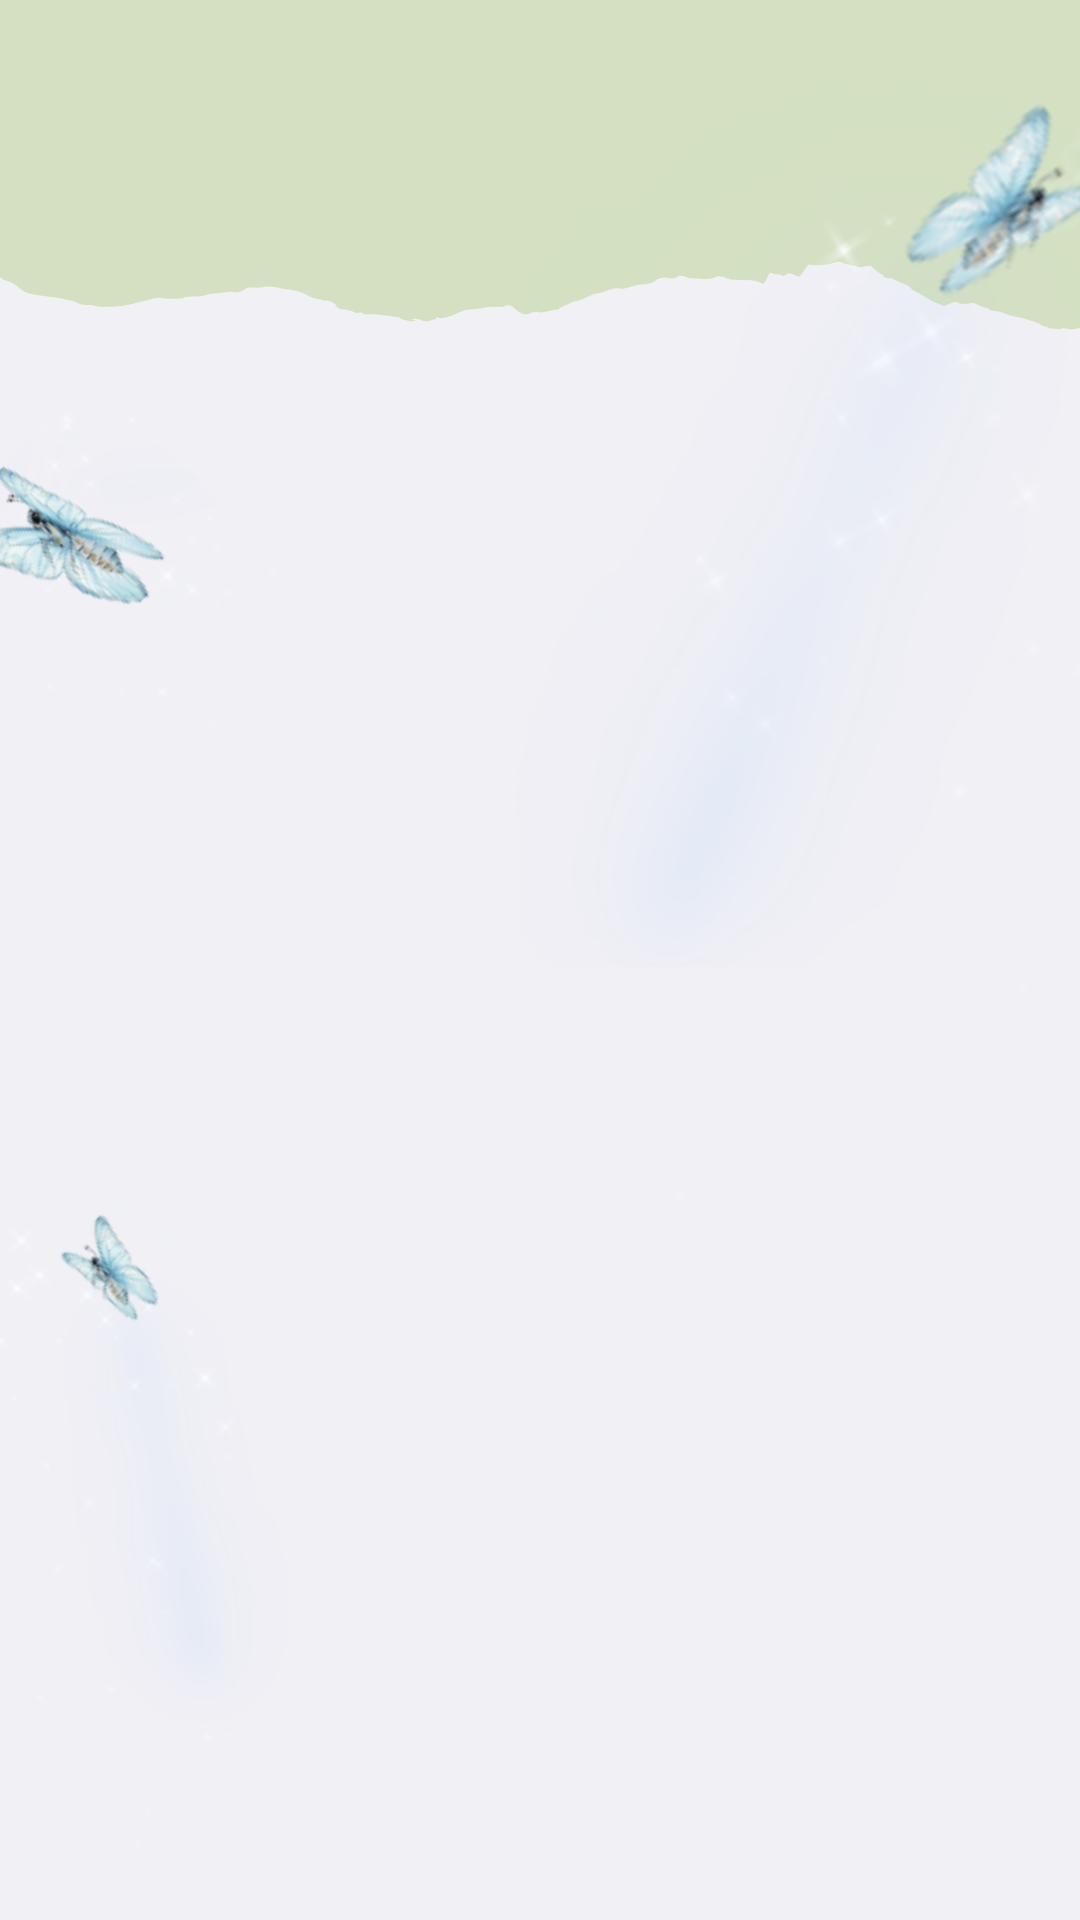
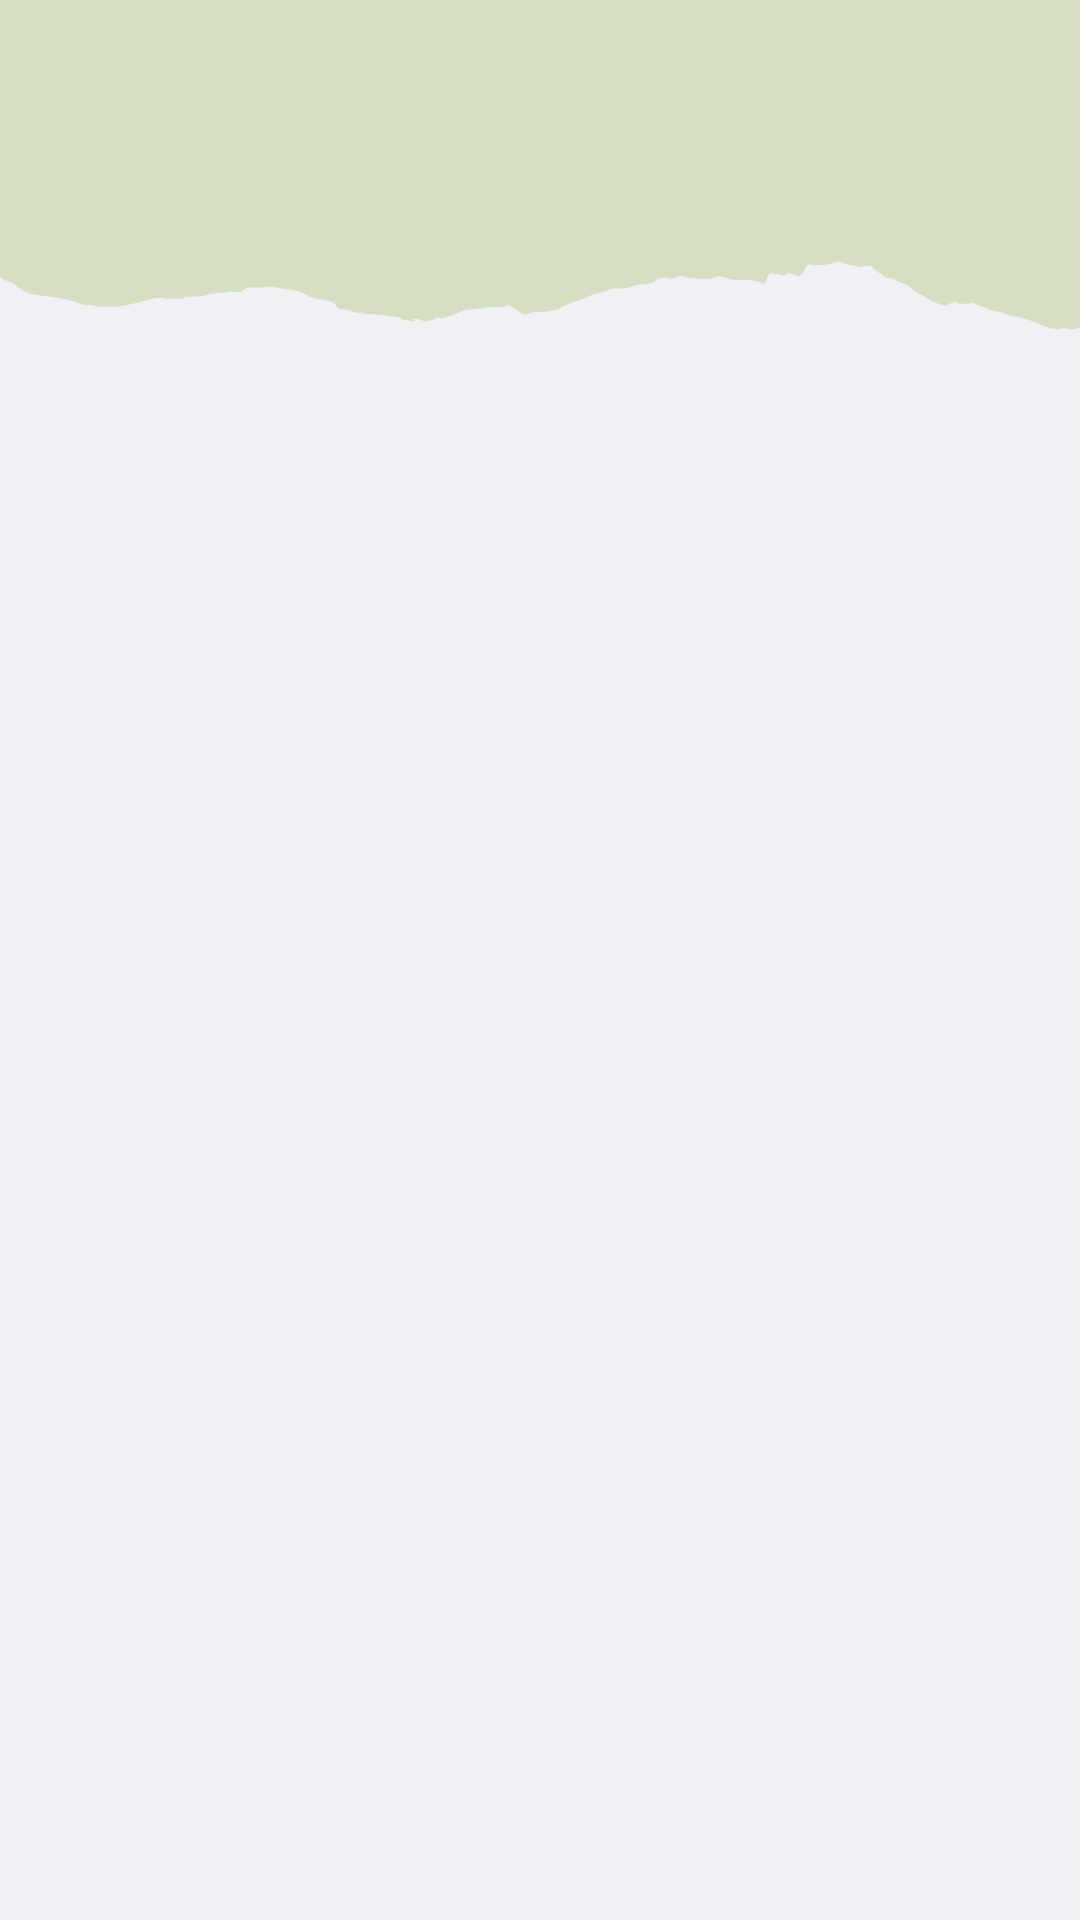
feat: update image assets and adjust background color mappings in music and share views

Changed region(s): [[0.825, 0.0312, 1.0, 0.1562], [0.0, 0.2188, 0.1528, 0.3125], [0.0611, 0.625, 0.1528, 0.6875]]

diff --git a/resources/views/events/share.blade.php b/resources/views/events/share.blade.php
@@ -19,7 +19,7 @@
     $templates = [
         1 => [
             'bg' => asset('images/fondoCV.png'),
-            'button' => '#4A720D',
+            'button' => '#436C00',
             'card' => '#CCD9B7',
             'text' => '#426B00',
             'textName' => '#000000',
@@ -81,7 +81,7 @@
 
         <!-- Header -->
         <div class="w-full text-center mb-2">
-            <flux:heading level="1" class="text-xl font-bold italic" style="color: {{ $theme['text'] }};">
+            <flux:heading level="1" class="text-xl font-semibold italic" style="color: {{ $theme['text'] }};">
                 Compartir recuerdos
             </flux:heading>
 
@@ -89,6 +89,8 @@
                 Sube fotos o videos de este evento.
             </flux:text>
         </div>
+
+        <br>
 
         <div class="w-full text-center my-6">
             <h2 class="text-5xl md:text-6xl tracking-normal"
@@ -105,6 +107,13 @@
             @endif
         </div>
 
+        @if ($theme === $templates[1])
+            <div class="w-full flex justify-center mb-4">
+                <img src="{{ asset('images/separador-hojas.png') }}" alt="Separador"
+                    class="w-40 md:w-52 object-contain">
+            </div>
+        @endif
+
         <div id="formMessage" class="w-full"></div>
 
         <!-- Form -->
@@ -114,7 +123,7 @@
             @csrf
 
             <!-- Card -->
-            <div class="rounded-2xl px-5 py-5 space-y-3 shadow-sm" style="background-color: {{ $theme['card'] }};">
+            <div class="rounded-2xl text-center px-5 py-5 space-y-3 shadow-sm" style="background-color: {{ $theme['card'] }};">
 
                 <flux:heading level="3" class="text-base font-semibold text-neutral-800">
                     Selecciona archivos

diff --git a/resources/views/events/music.blade.php b/resources/views/events/music.blade.php
@@ -10,15 +10,15 @@
 
 @php
     $backgroundMap = [
-        1 => asset('images/fondoVM.jpg'),
-        2 => asset('images/fondoAM.jpg'),
-        3 => asset('images/fondoDM.jpg'),
+        1 => asset('images/fondoVM.png'),
+        2 => asset('images/fondoAM.png'),
+        3 => asset('images/fondoDM.png'),
     ];
 
     $backgroundImage = $backgroundMap[$event->template] ?? null;
 
     $colorMap = [
-        1 => '#4A720D',
+        1 => '#436C00',
         2 => '#092D51',
         3 => '#A8792B',
     ];